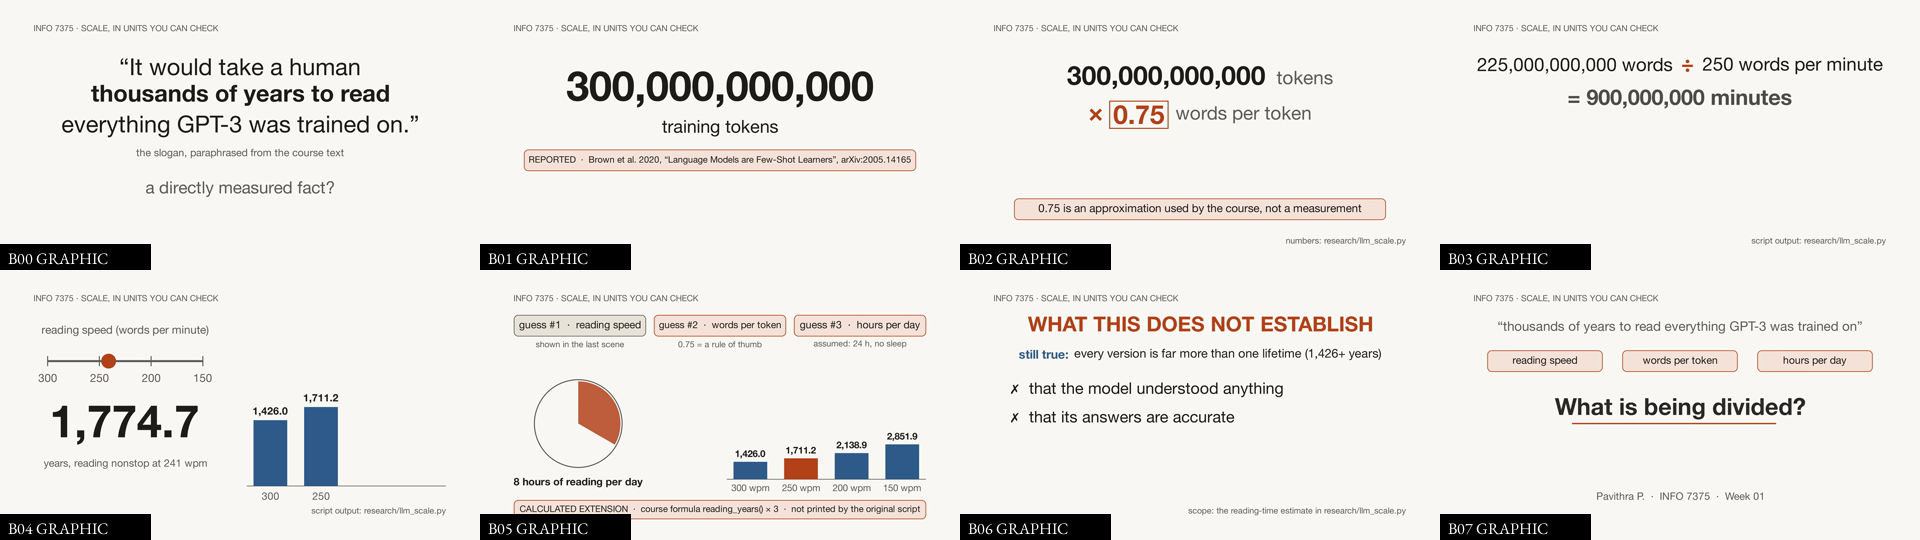
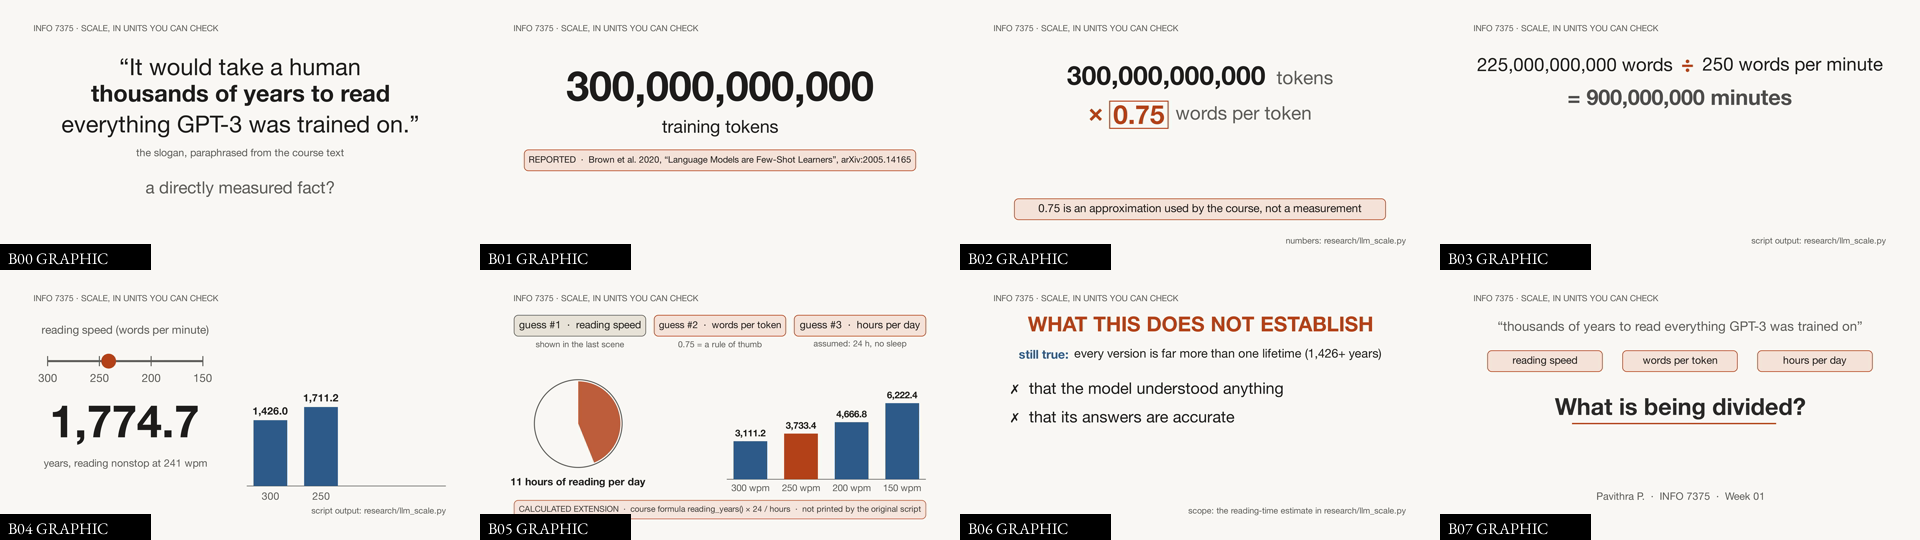
fix(fall-2026/pavithra-p): correct B05 values and finalize week 01 video
B05 now drives the clock, bars and numbers from one hours tracker, so
every value shown is years_at(wpm) x 24 / hours for the hour on the
label. Other scenes are unchanged (verified frame by frame).

Also: record the Brutalist toolkit revision, add the video SHA-256 to
the README, and bring FRICTIONAL.md up to date.

Changed region(s): [[0.375, 0.7407, 0.5, 0.8593], [0.25, 0.8889, 0.4688, 0.9481], [0.2812, 0.8, 0.3438, 0.8593]]

diff --git a/fall-2026/pavithra-p/week-01-video/scenes.py b/fall-2026/pavithra-p/week-01-video/scenes.py
@@ -377,13 +377,15 @@ class B05_MoreGuesses(Scene):
         # ── bars, starting at the nonstop (script output) values ──
         base, xs = -2.2, {300: 0.9, 250: 2.4, 200: 3.9, 150: 5.4}
         scale = 3.1 / EIGHT_H[150]
-        mult = ValueTracker(1.0)
+        # one tracker drives the clock, the bar heights and the numbers, so every
+        # value on screen is years_at(wpm) x 24 / hours for the hours shown
+        hours = ValueTracker(24)
 
         def make_bars():
             g = VGroup()
             for w in RATES:
-                shown = EIGHT_H[w] if mult.get_value() > 2.999 else NONSTOP[w] * mult.get_value()
-                h = max(NONSTOP[w] * mult.get_value() * scale, 0.01)
+                shown = years_at(w) * 24 / round(min(max(hours.get_value(), 8), 24))   # same whole hour as the label
+                h = max(shown * scale, 0.01)
                 col = ACCENT if w == 250 else BLUE
                 r = Rectangle(width=1.0, height=h, fill_color=col, fill_opacity=1, stroke_width=0)
                 r.move_to([xs[w], base + h / 2, 0])
@@ -402,8 +404,7 @@ class B05_MoreGuesses(Scene):
 
         c.at("Second, the calculation")
         c.play(FadeIn(g3, shift=DOWN * 0.1), FadeIn(g3s), rt=0.8)
-        # 24-hour clock
-        hours = ValueTracker(24)
+        # 24-hour clock (same `hours` tracker as the bars)
         ctr = np.array([-4.2, -0.55, 0])
         rim = Circle(1.3, color=MUTED, stroke_width=3).move_to(ctr)
         fill = always_redraw(lambda: AnnularSector(inner_radius=0.0, outer_radius=1.25,
@@ -415,13 +416,10 @@ class B05_MoreGuesses(Scene):
         c.play(Create(rim), FadeIn(fill), FadeIn(hl), rt=0.9)
 
         c.at("Read eight hours a day")
-        banner = chip("CALCULATED EXTENSION  ·  course formula reading_years() × 3  ·  not printed by the original script",
+        banner = chip("CALCULATED EXTENSION  ·  course formula reading_years() × 24 / hours  ·  not printed by the original script",
                       12.2, h=0.55, size=19, fill=ACCENT_SOFT, stroke=ACCENT)
         banner.move_to([0, -3.1, 0])
-        c.play(hours.animate.set_value(8), FadeIn(banner), rt=1.4)
-
-        c.at("every answer triples")
-        c.play(mult.animate.set_value(3.0), rt=2.0)
+        c.play(hours.animate.set_value(8), FadeIn(banner), rt=3.2)
 
         c.at("One thousand, seven hundred and eleven years becomes")
         hi = VGroup(T("250 words/min:", 22, MUTED), T("1,711.2", 26, INK, "BOLD"),

diff --git a/fall-2026/pavithra-p/week-01-video/FRICTIONAL.md b/fall-2026/pavithra-p/week-01-video/FRICTIONAL.md
@@ -1,8 +1,8 @@
 # Frictional — Week 01 video
 
-Pavithra Prasad. · INFO 7375 · Week 01 video ("Thousands of Years, Divided")
+Pavithra Prasad · INFO 7375 · Week 01 video ("Thousands of Years, Divided")
 
-> **How this log was written:** events are dated on the day they happened. On 2026-09-25 I reorganised the log into the course's entry format with Claude's help, because my first version described Claude's technical fixes as if I had done them. The parts marked *[in my words]* are mine.
+> **How this log was written:** events are dated on the day they happened. Claude and I wrote it together from our working session, and I reviewed every entry. On 2026-09-25 we reorganised it into the course's entry format, because the first version described Claude's technical fixes as if I had done them.
 
 ---
 
@@ -12,7 +12,7 @@ Pavithra Prasad. · INFO 7375 · Week 01 video ("Thousands of Years, Divided")
 - **What happened:** Claude listed the eligible topics. It recommended "subtracting the maximum" (Part 2) first, then "expected 665.24 vs observed 630" (Part 2) as the easiest.
 - **What I did:** I picked the 665.24 vs 630 topic and asked Claude to check it against the rubric before going further.
 - **What Claude contributed:** the topic list, a rubric comparison, and a real run of `lessons/01-.../code/main.py` (counts 102 / 268 / 630 at seed 7). It also found that seed 7 is the lowest of seeds 0–99.
-- **I expected / still wondered:** *[in my words — e.g. what I expected the assignment to take, or what I was unsure about at this point]*
+- **Unsure at this point:** which topic to pick. I wanted one I could explain without going too deep, and I couldn't tell whether Part 1 (mostly theory) or Part 2 (mostly numbers) would suit that better.
 
 ## 2026-09-23 — Switching from Part 2 to Part 1
 
@@ -30,7 +30,7 @@ Pavithra Prasad. · INFO 7375 · Week 01 video ("Thousands of Years, Divided")
 - **Two corrections I required before approving:**
   - B00: "It isn't a measurement" → "an estimate produced by division". The 300 billion tokens is *reported*; only the reading time is *estimated*.
   - B06: "describes how much text went in" → "translates a reported training-token count into hypothetical human reading time". The old line contradicted the sentence before it.
-- **Also caught:** Claude said the script was ~450 words. The real count was 393 (~2:30).
+- **Also caught:** Claude said the script was ~450 words. The real count was 393 at that point, and 403 after my two corrections (~2:30 of speech).
 - **Evidence:** `beat_sheet.json` → `metadata.review` (approved 2026-09-23).
 
 ## 2026-09-23 — Tool problems (Claude Code handled these; I followed along)
@@ -42,7 +42,7 @@ I asked Claude to build the video and not commit or push anything. It hit these 
 - Brutalist's `./setup` stopped on its own example files ("ElevenLabs reference found"). Claude ran the same readiness checks by hand; the Kokoro voice test passed.
 - The toolkit's quality gates rejected scenes several times: text a hair past the margin, too much empty space mid-scene, overlapping captions. Each was fixed and only that scene re-rendered.
 - **I asked:** whether all of this was free (yes: Kokoro, Manim and ffmpeg run locally; $0), and what Claude had installed or changed outside my folder (listed in chat; nothing in the course repo was edited).
-- **What I don't fully understand:** *[in my words — e.g. how the quality gates decide something is "off-frame", or anything else here you'd want to learn]*
+- **What I don't fully understand:** most of the setup terms (Homebrew taps, cairo/pango, the quality gates) were new to me. I followed what Claude did and checked the results, but I couldn't have fixed those errors on my own yet.
 
 ## 2026-09-24 — I spotted uneven letter spacing
 
@@ -50,28 +50,37 @@ I asked Claude to build the video and not commit or push anything. It hit these 
 - **What I did:** I sent a screenshot and asked about it. I also asked whether I needed an intro (Claude said no: B00 already works as one, and extra time would be padding).
 - **What Claude contributed:** the cause (a known Manim text-spacing issue at small sizes) and the fix (render text 4× larger, then shrink it). In the same round it flipped the B04 slider to match the bar order and added my name under the title.
 - **Decision:** I asked for all fixes in one round and said this would be the last version.
-- **Evidence:** before/after frames of B00; final `thousands-of-years-divided.mp4` (2:28).
+- **Evidence:** final `thousands-of-years-divided.mp4` (2:28), in the Canvas zip.
 
-## 2026-09-25 — Comparing with another video, and final checks
 
-- **I tried:** giving Claude another Week 1 video (on softmax) and asking for an honest comparison and grades for both.
-- **What I learned from it:** the other video showed the program's raw printed output as evidence, which is strong. It was also the review copy with debug labels burned in, which is why exporting the clean final version matters.
-- **Decision:** I kept my video unchanged. Claude said no changes were needed, and cautioned against borrowing another video's structure or wording.
-- **Cleanup:** Claude deleted about 155 MB of build leftovers and some Python cache folders. I asked whether this log read as AI-written. Claude pointed out that my first version described its technical fixes as mine, so I asked it to reorganise the log in the course format.
+## 2026-09-25 — Local commit, and the video/GitHub question
+
+- **What happened:** when staging my folder, only 18 of 30 files were picked up. The course repo's `.gitignore` blocks all `.mp4` and `.mp3` files ("Keep generated audio/video out of Git"), but the assignment asks for the mp4 on GitHub.
+- **Decision:** I chose to follow the professor's repo rule. The video goes only in the Canvas zip, and `README.md` explains why it isn't on GitHub.
+- **Did:** committed my folder locally on branch `pavithra-p/week-01-video`, with nothing pushed.
+- **Evidence:** commit `ef322f2` (first local commit; a later commit adds these final log edits).
+
+## 2026-09-27 — Final correction to B05, before submitting
+
+- **What happened:** a review of my zip pointed out that in B05 the clock reached "8 hours" while the bars still showed the 24-hour numbers, and the bars then grew through values like 2,702 that match no real assumption. It also said my Finder zip had about 30 hidden Mac files, and that my log's word count (393) was out of date.
+- **What I did:** asked Claude to check each point against the actual files before changing anything, then approved the fix. Three were right: the B05 mismatch, the 30 `__MACOSX`/`._` files, and the word count (403 after my corrections). One was wrong: it said B00 had a duplicated animation line, but that line appears only once in `scenes.py`, so I didn't change anything there.
+- **What Claude contributed:** rewrote B05 so one `hours` tracker drives the clock, bars and numbers together. Every value on screen is now `years_at(wpm) × 24 / hours`, using the same whole hour the clock label shows (e.g. at 23 hours, 300 wpm shows 1,488.0). Only B05's code changed. The other seven scenes were re-rendered from unchanged code and compared frame by frame with the previous version.
+- **Evidence:** `scenes.py` (B05), final `thousands-of-years-divided.mp4` and its SHA-256 in `README.md`. Next: push to GitHub and submit the zip on Canvas.
 
 ---
 
 ## What I understand now
 
-*[in my words — 3–5 bullets. For example: why "thousands of years" is a division and not a measurement; which three guesses are hidden in it; why halving reading speed doubles the years; what the calculation cannot tell you.]*
-
--
--
--
+- "Thousands of years to read" is not a measured fact. It is an estimate: reported tokens × words per token ÷ reading speed.
+- The only reported number is ~300 billion training tokens, from the GPT-3 paper. Everything after that is a choice someone made.
+- There are three hidden guesses: reading speed, 0.75 words per token, and reading 24 hours a day with no sleep.
+- Half the reading speed means double the years (150 wpm gives twice the years of 300 wpm), and reading 8 hours a day instead of 24 triples every answer.
+- Every version is still far more than a lifetime, so the slogan's basic point survives. But the calculation says nothing about whether the model understood anything or is accurate.
+- A token is a chunk of text, not a word, which is why the 0.75 conversion is needed at all.
+- Automated checks don't catch everything. The uneven letter spacing passed every quality gate, and I only saw it by watching the video full screen.
 
 ## What I still don't understand / next step
 
-*[in my words — 1–3 bullets. For example: something about tokens, how GPT-3's 300B figure was counted, whether tokens were repeated in training, or something about the tools.]*
-
--
--
+- Whether all ~300 billion training tokens were different text, or whether some was repeated during training. If so, the *unique* text is smaller than the slogan suggests.
+- Where 0.75 words per token comes from, and how much it changes for other languages or code.
+- Next step: check the 300 billion figure in the GPT-3 paper myself. I only used it as cited by the course script.

diff --git a/fall-2026/pavithra-p/week-01-video/SHOTLIST.md b/fall-2026/pavithra-p/week-01-video/SHOTLIST.md
@@ -9,6 +9,6 @@ All beats are machine-rendered Manim scenes (`scenes.py`). There are no pantry s
 | B02 | GRAPHIC · manim | `B02_Words` | × 0.75 row enters, 0.75 boxed as an approximation, result 225,000,000,000 words | 12.99 |
 | B03 | GRAPHIC · manim | `B03_Divide` | ÷ 250 → 900,000,000 minutes → ÷ 525,960 → ≈ 1,711.2 years | 14.38 |
 | B04 | GRAPHIC · manim | `B04_Speed` | Reading-speed knob (300 left → 150 right, same order as the bars) slides 250 → 300 → 200 → 150 with a live years readout; one bar per speed; 150 bar shown as two 300 bars | 23.53 |
-| B05 | GRAPHIC · manim | `B05_MoreGuesses` | Guess chips #2 and #3 appear; 24-hour clock shrinks to 8; bars grow ×3; CALCULATED EXTENSION banner | 32.08 |
+| B05 | GRAPHIC · manim | `B05_MoreGuesses` | Guess chips #2 and #3 appear; 24-hour clock shrinks to 8 while the bars and values follow it (years × 24 / hours at every moment); CALCULATED EXTENSION banner | 32.08 |
 | B06 | GRAPHIC · manim | `B06_Boundary` | "WHAT THIS DOES NOT ESTABLISH", one still-true line, three ✗ lines, "what it does" box | 25.11 |
 | B07 | GRAPHIC · manim | `B07_Close` | Slogan with its three guesses tagged; two closing questions; name footer | 8.19 |

diff --git a/fall-2026/pavithra-p/week-01-video/FACTCHECK.md b/fall-2026/pavithra-p/week-01-video/FACTCHECK.md
@@ -18,6 +18,7 @@ Every on-screen or spoken claim, what backs it, and how far it was checked.
 | B04 | The slowest answer is twice the fastest | Correct | 150 wpm is half of 300 wpm, and years ∝ 1/wpm. Rounded values: 2,851.9 vs 2 × 1,426.0 = 2,852.0 (0.1 rounding gap). |
 | B05 | The formula assumes 24 hours/day of reading | Correct | `reading_years()` converts minutes straight to years with no hours-per-day term |
 | B05 | At 8 hours/day every answer triples: 1,711.2 → 5,133.5 | **Calculated extension**, labelled on screen | `evidence.json → extension`: `reading_years() × 24/8`. Not printed by `llm_scale.py`. |
+| B05 | In-between values while the clock moves (e.g. 12 h → 3,422.3 years at 250 wpm) | Correct: same formula | `years_at(wpm) × 24 / hours` in `scenes.py`; same function as the extension. Shown only during the transition. |
 | B06 | Every version is far more than one lifetime | Correct | Smallest figure shown is 1,426.0 years |
 | B06 | The calculation does not show understanding, accuracy, or that the tokens were unique | Correct (a limit, not a finding) | Nothing in the inputs of `reading_years()` concerns any of these |
 

diff --git a/fall-2026/pavithra-p/week-01-video/README.md b/fall-2026/pavithra-p/week-01-video/README.md
@@ -1,9 +1,10 @@
-# Week 01 video — Thousands of Years, Divided
+# Week 01 video — A training-scale slogan, restated as a division with its hidden assumptions
 
-**Name:** Pavithra Prasad.
+**Name:** Pavithra Prasad
 **Course:** INFO 7375, Prompt Engineering for Generative AI (Fall 2026)
 **Video:** [`thousands-of-years-divided.mp4`](thousands-of-years-divided.mp4)
 **Runtime:** 2:28 (148.3 s) · 3840×2160 · 24 fps · H.264 + AAC
[1 lines of base64/hex data omitted]
 
 > **Video and audio on GitHub:** the `.mp4` and `mp3/*.mp3` files are not in this GitHub folder, because the course repo's `.gitignore` excludes generated audio and video. The video is in the Canvas zip (`Prasad_Pavithra_INFO7375_Week01_Video.zip`) and can be rebuilt with [`BUILD-PROMPT.md`](BUILD-PROMPT.md).
 

diff --git a/fall-2026/pavithra-p/week-01-video/BUILD-PROMPT.md b/fall-2026/pavithra-p/week-01-video/BUILD-PROMPT.md
@@ -18,6 +18,8 @@ brew install ffmpeg cairo pkg-config pango
 
 (On this machine Homebrew needed `HOMEBREW_NO_AUTO_UPDATE=1 HOMEBREW_NO_INSTALLED_DEPENDENTS_CHECK=1` in front; see FRICTIONAL.md.)
 
+**Toolkit revision used:** `brutalist.art` commit `6a8380ae169cca81e0633664a65c958f5c12ab4b` (2026-09-20). To rebuild with the same version: `git -C brutalist.art checkout 6a8380a`. The only local change in that checkout is `runtime/remotion/package-lock.json`, rewritten by `./setup --install` (`npm install`).
+
 ```bash
 cd brutalist.art && python3.12 -m venv .venv && . .venv/bin/activate && ./setup --install
 ```

diff --git a/fall-2026/pavithra-p/week-01-video/TYPECHECK.md b/fall-2026/pavithra-p/week-01-video/TYPECHECK.md
@@ -1,6 +1,6 @@
 # TYPECHECK.md — GATE T
 
-Reel: `thousands-of-years-divided`  |  Checked: 2026-09-24T16:10  |  Overall: PASS  |  Beats checked: 8  |  FAILs: 0
+Reel: `thousands-of-years-divided`  |  Checked: 2026-09-27T14:08  |  Overall: PASS  |  Beats checked: 8  |  FAILs: 0
 
 Spec: `skills/make/kerning/reference/type-spec.md` §8.  Floor: 1.9% frame-height.  Contrast: 4.5:1 WCAG.  Kern threshold: 3.5× expected advance.  Wordy budget: 2 elements.
 
